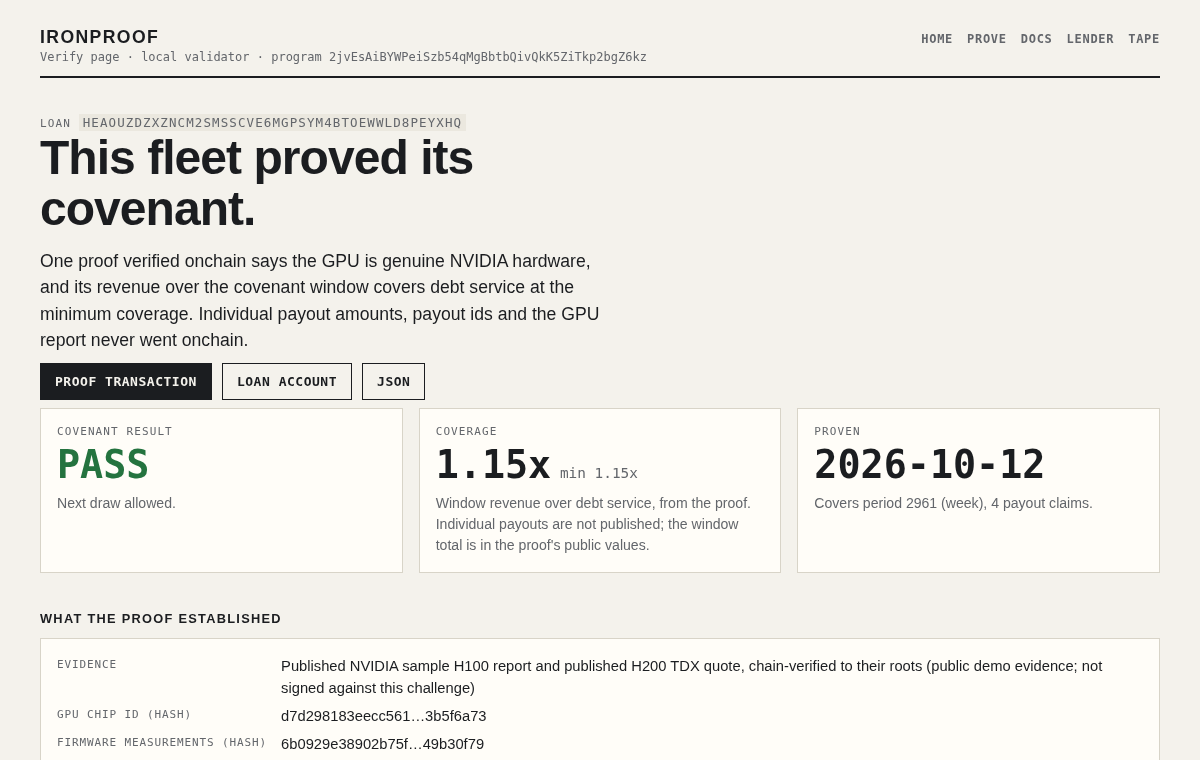
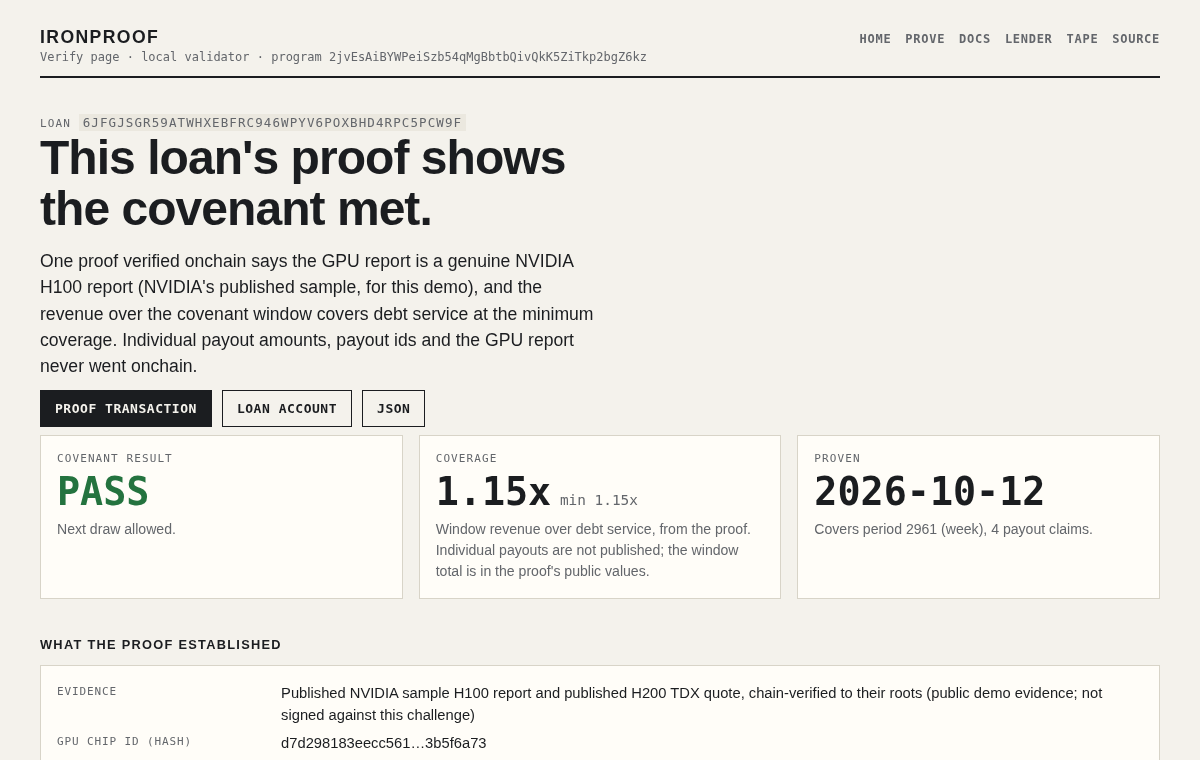
README: judges GIF, one-command run, first-facility map; refresh demo run and screenshots
Claude-Session: https://claude.ai/code/session_01VroAWgx1ds49jSJxLJ4Pcu

diff --git a/docs/first-facility.md b/docs/first-facility.md
@@ -1,0 +1,91 @@
+# First facility: what a weekly proof would add to USD.AI's public loan book
+
+This page maps every funded position in USD.AI's public loan book to what a weekly Ironproof proof
+would add, and to what is still missing for it. The data was read on Oct 12, 2026 from USD.AI's own
+API. Ironproof is not affiliated with USD.AI, and nothing here was sent to them. Borrower names are
+left out; positions are identified by the API's own ids. Lines marked *[inf]* are our inference.
+
+## The honest gap first
+
+**92% of the funded book is Blackwell** (B200, B300, DGX B300 and RTX PRO 6000 GPUs). Ironproof's GPU
+check has only been run on NVIDIA's published sample **H100** report. The two H200 positions, about 8%
+of the book, are Hopper, the same family as the tested H100 path. Even those have not been run with a
+real H200 report signed against a lender's challenge *[inf]*. Every Blackwell row below is therefore
+blocked on an attestation path that has not been tested.
+
+## Summary
+
+- **20 funded positions, $177.3M principal outstanding**, about $1.62M of debt service a week, with
+  558 servers and 4,536 GPUs listed (sum of `remainingAmount` in `proof-of-reserves`).
+- USD.AI publishes the covenant a proof would test: "Loans are monitored quarterly against a minimum
+  1.15x debt service coverage ratio (DSCR)", tested against trailing cash receipts
+  ([underwriting page](https://usd.ai/insights/usdai-underwriting-and-risk-management)). Ironproof runs
+  the same kind of test weekly, with the ratio set as a loan term.
+- Public telemetry lists servers and GPU counts. It shows neither chip identity nor revenue.
+- **Best first fit: the H200 [75] position in Missouri** (`26472cfd`, $14.08M outstanding, about $141k
+  of debt service a week). A low-stakes alternative is the H200 [4] position in Montréal (`6598ba4c`,
+  $0.42M).
+
+## Funded positions
+
+Sorted by principal outstanding.
+- **Weekly debt service** is our estimate: next month's scheduled principal, plus interest on the
+  remaining balance (outstanding × APR ÷ 12), times 12/52. It is within about 3% of the next scheduled
+  payment where checked *[inf]*.
+- **4-week revenue at 1.15x** is what a 4-week proof window must show to PASS at USD.AI's published
+  minimum. Multiply it by 3.25 for a 13-week window.
+- **Telemetry** is servers / GPUs / healthy, as returned by `api.usd.ai/loans/{id}/hardware`.
+
+| # | API id · collateral · location | Outstanding · APR | Weekly debt service · 4-wk revenue at 1.15x | Telemetry | GPU path status |
+|---|---|---|---|---|---|
+| 1 | `15643b8e` · B300 [130] · OH, USA | $54.40M · 10.0% | $453k · $2.09M | 130 / 1,040 / 130 | Blackwell, untested |
+| 2 | `37fddd85` · B200 [96] · Sweden | $31.22M · 12.0% | $290k · $1.34M | 96 / 768 / 96 | Blackwell, untested |
+| 3 | `9405f9b0` · B300 [72] · WA, USA | $22.35M · 10.0% | $215k · $988k | 72 / 562 / 72 | Blackwell, untested |
+| 4 | `2682e26c` · B300 [34] · PA, USA | $14.91M · 15.0% | $139k · $638k | 34 / 272 / 34 | Blackwell, untested |
+| 5 | `26472cfd` · **H200 [75]** · MO, USA | $14.08M · 12.0% | $141k · $647k | 75 / 598 / 75 | **Hopper: closest to the tested path** |
+| 6 | `8d33be24` · B200 [32] · TX, USA | $10.22M · 11.5% | $96k · $443k | 32 / 256 / 32 | Blackwell, untested |
+| 7 | `d3ddb565` · DGX B300 [24] · NE, USA | $9.56M · 15.0% | $89k · $409k | none listed | Blackwell, untested |
+| 8 | `417cc4b8` · B200 [32] · DE, USA | $7.32M · 10.0% | $62k · $286k | 32 / 344 / 32 | Blackwell, untested |
+| 9 | `16d5ab14` · B200 [38] · TX, USA | $7.13M · 11.5% | $72k · $331k | 38 / 304 / 38 | Blackwell, untested |
+| 10 | `2bfd491d` · B300 [9] / RTX PRO 6000 [18] · PA, USA | $3.44M · 12.0% | $36k · $167k | 27 / 216 / 27 | Blackwell; RTX PRO 6000 attestation unconfirmed |
+| 11 | `11ac9b68` · B200 [8] · France | $1.66M · 15.0% | $20k · $90k | 8 / 64 / 8 | Blackwell, untested |
+| 12 | `6598ba4c` · **H200 [4]** · Montréal | $0.42M · 12.0% | $5k · $24k | 4 / 32 / 4 | **Hopper: closest to the tested path** |
+| 13 | 7 positions (`e8b74f1a`, `7681d15b`, `426919e9`, `39784b8e`, `08143a90`, `90e3ca49`, `21092778`) · RTX PRO 6000 [1] each · Montréal | $0.43M together · 13.5% | $4.6k · $21k together | 1 / 8 / 1 each | RTX PRO 6000 attestation unconfirmed |
+| 14 | `10051edf` · RTX PRO 6000 [3] · TX, USA | $0.16M · 15.0% | $1.7k · $8k | 3 / 24 / 3 | RTX PRO 6000 attestation unconfirmed |
+| | **Total** | **$177.30M** | **≈ $1.62M a week** | **558 / 4,536 / all healthy** | |
+
+**Counts a curator may want explained.** These are differences between public sources, not findings
+of fault:
+- Row 3: 562 GPUs reported, against 576 in the July attestation report.
+- Row 5: 598 GPUs reported, against 600.
+- Row 8: 344 GPUs reported on 32 servers, more than the 256 that 8 GPUs per server would give *[inf]*.
+- Row 7: no hardware listed yet.
+
+A proof records one NVIDIA-signed chip id per GPU that answers the lender's challenge. A GPU that
+doesn't answer can't be counted.
+
+## What the first facility needs, and what is built
+
+| Needed for row 5 | Status |
+|---|---|
+| GPU attestation verified to NVIDIA's root (P-384) | Built; run only on NVIDIA's sample H100 report. No validity-date, revocation or RIM checks yet |
+| The borrower's own GPU report and TDX quote, signed against the lender's challenge | Not built (host mode) |
+| Enclave binding (Intel TDX quote) | Structural checks built; off in the demo (`vm_bound = 0`) |
+| Revenue from USD.AI's covenant source (offtake receipts) | Not built; the demo uses Razorpay-shaped payouts signed by test attestor keys |
+| Covenant test and draw gate (PASS at 1.15x, WATCH and refusal at 1.14x, replay refused) | Built; runs on a local validator with the shipped binary ([`demo/`](../demo/)) |
+| One GPU per loan across lenders (device registry) | Built in source, off by default; not in the prebuilt binary |
+| Every GPU in the facility, not one per proof | Planned: each GPU proven once against a lender-held chip list, then a weekly sample |
+| Devnet or mainnet deployment, audit | Not done |
+
+**What a proof cannot show, whatever is built:** title and off-chain liens (USD.AI's SPV and Loan NFT
+cover that), GPU location and health (telemetry covers that), revenue outside the pinned source, and
+self-dealing through a related-party offtaker *[inf]*.
+
+## Sources
+
+All read on Oct 12, 2026.
+- USD.AI API, positions, amounts, APR and location: https://api.usd.ai/usdai/dashboard/proof-of-reserves?chainId=42161
+- USD.AI API, hardware per loan: `https://api.usd.ai/loans/{id}/hardware`
+- USD.AI API, repayment schedule: `https://api.usd.ai/usdai/loans/42161/{id}/schedule`
+- The Network Firm agreed-upon-procedures report as of Jul 15, 2026: https://docs.usd.ai/usdai/proof-of-loans
+- USD.AI, "Underwriting and Risk Management": https://usd.ai/insights/usdai-underwriting-and-risk-management

diff --git a/README.md b/README.md
@@ -20,10 +20,13 @@ Entry for the Colosseum Crypto World's Fair hackathon (submissions due 2026-10-1
 
 ## For judges (60 seconds)
 
+![Card, PASS verify page, WATCH verify page and badges from the local-validator run](docs/img/demo.gif)
+
 - **What ran:** the exact `oracle/dist/pct_oracle.so` on a local validator (Oct 12). Both Groth16 proofs verified onchain (117,789 and 117,790 CU), the draw at 1.15x was approved, the draw at 1.14x was refused (`CovenantBreached`, 6019), and the replayed proof was refused (`ZkStaleChallenge`, 6027). Output: [`demo/local-validator-run.json`](demo/local-validator-run.json) and [`.log`](demo/local-validator-run.log); their explorer links point at `127.0.0.1:8899`, so they open only on the machine that ran the validator. Devnet links replace this when the deploy lands.
-- **Run it yourself:** a local validator with the same binary, then `npm run zk:local` and `npm run web` ([Quickstart](#quickstart), about 5 minutes, no keypair or SOL).
-- **Check it without Solana:** `cd zk && cargo test` verifies NVIDIA's H100 certificate chain (P-384) and the TDX quote natively (20 tests, about 30 s once crates are cached); `npm install && npm test` runs the TypeScript suite.
+- **Run it yourself:** one command, `npm run zk:local`, against a local validator with the same binary, then `npm run web` to see the pages ([Quickstart](#quickstart), about 5 minutes, no keypair or SOL).
+- **Check it without Solana:** `cd zk && cargo test` verifies NVIDIA's H100 certificate chain (P-384) and the TDX quote natively (22 tests, about 30 s once crates are cached); `npm install && npm test` runs the TypeScript suite.
 - **Read first:** [What runs on sample data](#what-runs-on-sample-data). Every input in the demo is a published sample or a test key; the verifier, the program and the proofs are real.
+- **Who it is for:** [First facility](docs/first-facility.md) maps USD.AI's public GPU loan book to what a weekly proof would add, including the 92% of it on Blackwell that Ironproof has not tested.
 - **Code worth reading:** `zk/lib/src/gpu.rs` (NVIDIA chain), `oracle/programs/pct_oracle/src/risc0_groth16.rs` (Groth16 on alt_bn128), `oracle/programs/pct_oracle/src/instructions/zk.rs` (challenge, covenant, fee, draw gate).
 
 | PASS loan, draw allowed | WATCH loan, draw refused |
